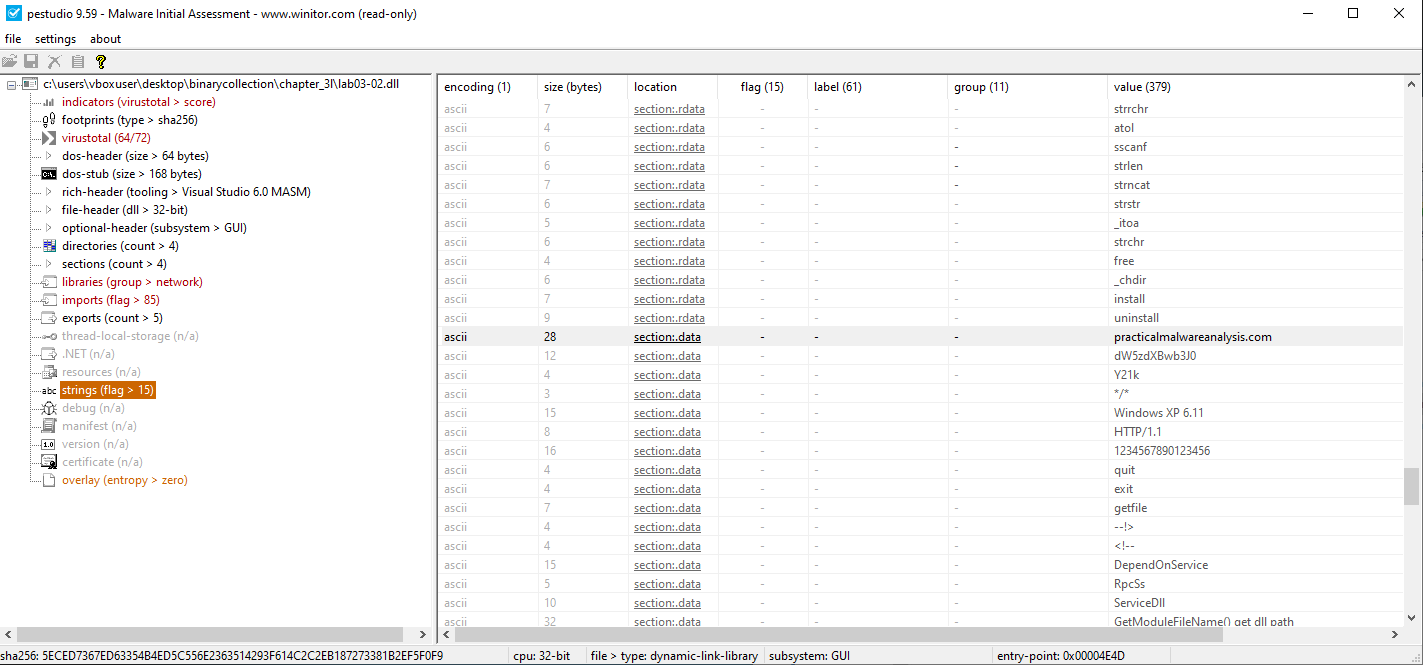
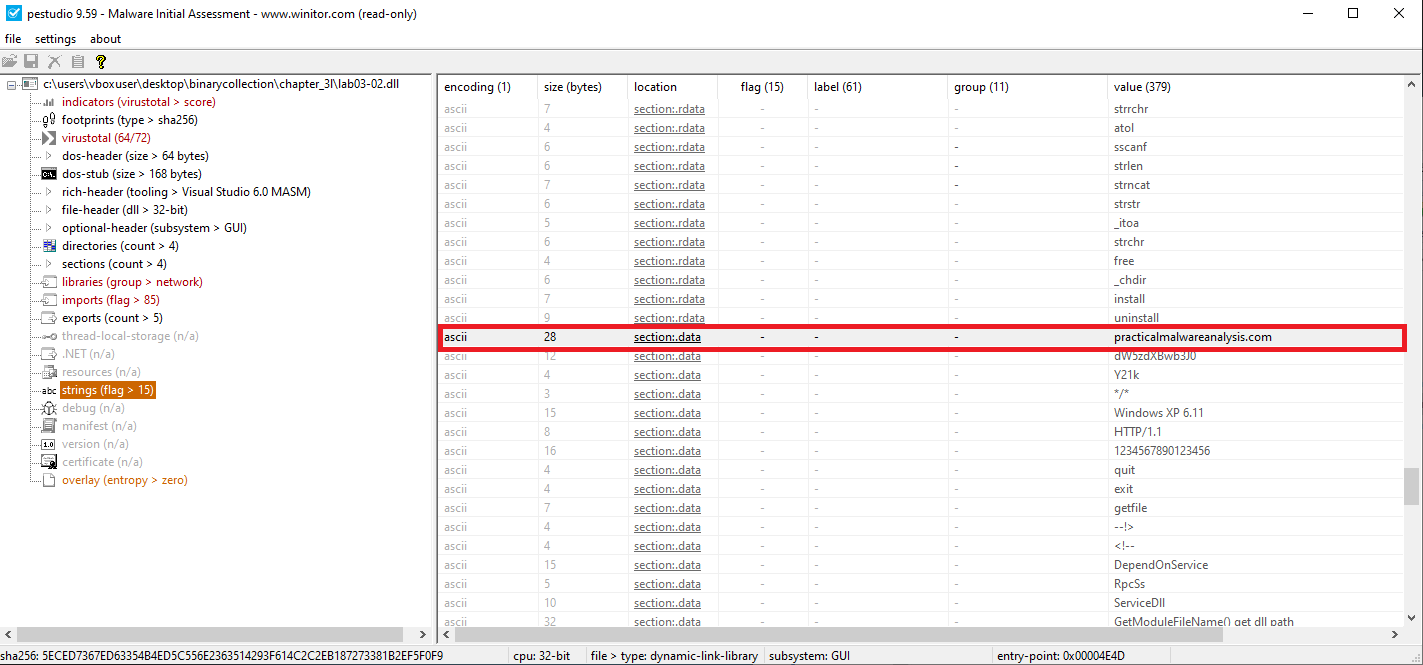
upload chapter 5

Changed region(s): [[0.3092, 0.4812, 0.9895, 0.5414]]

diff --git a/_posts/2025-07-07-ch(1,3).md b/_posts/2025-07-07-ch(1,3).md
@@ -1,17 +1,16 @@
 ---
-title: PMA Labs 
-description: Practical Malware Analysis (PMA) Lab01 .
+title: PMA ch(01,03)
+description: Practical Malware Analysis (PMA) ch(01,03) .
 categories: [PMA]
-date: 2025-07-07 00:33:00 +0800
-tags: [PMA Labs,Malware analysis ,analysis]
+date: 2025-07-07 16:33:00 +0300
+tags: [PMA Labs,Malware analysis ,analysis,ch3,ch1]
 pin: true
 math: true
 mermaid: true
 image:
   path: "../assets/img/PMA-Labs/lab01/logo.png"
   alt: PMA Labs
-keywords: [PMA Labs, Practical Malware Analysis, Malware Analysis Lab01]
-canonical_url: "https://0xislvm.github.io/posts/Lab01/"
+keywords: [PMA Labs, Practical Malware Analysis, Malware Analysis Lab01, Malware Analysis Lab03]
 ---
 <style>
 img {
@@ -451,18 +450,14 @@ We also aim to extract host-based and network-based indicators of compromise (IO
   <p style="font-weight: bold; font-size: 1.2em; margin-top: 0.5em;">Finally finished Chapter One</p>
 </div>
 
-
 ---
-##  _Lab 3 – Note_
 
+##  _Lab 3-1_
 ⚠ **Note:**  
  To properly analyze these labs (3-1 to 3-4), it's essential to run the samples on **Windows XP**.  
  If executed on **Windows 10**, the malware will **terminate immediately** without exhibiting its intended behavior.  
  All analysis in this series is conducted using **Windows XP** to ensure accurate observation of malware activities.
 
----
-
-##  _Lab 3-1_
 ### 📝 Summary
 
 Lab03-01.exe is a very small, intentionally simple piece of malware used to practice basic dynamic analysis. Its observable behavior is limited; it performs minimal actions but does establish network activity and can be profiled to extract host- and network-based indicators.
@@ -514,7 +509,7 @@ Using **Procmon**, we identified the following registry behavior:
 ### 📍 Question 2: host-based indicators
 #### ⬜ `Lab03-01.exe`
 
-**What are the malware’s host-based indicators?**
+1. **What are the malware’s host-based indicators?**
 ![q2-2](../assets/img/PMA-Labs/lab03/q2-1-lab03-01.exe.png)
 
 
@@ -540,7 +535,7 @@ Using **Procmon**, we identified the following registry behavior:
 ### 📍 Question 3: Netwwork-based indicators
 #### ⬜ `Lab03-01.exe`
 
-**Are there any useful network-based signatures for this malware? If so, what are they?**
+2. **Are there any useful network-based signatures for this malware? If so, what are they?**
 ![q3](../assets/img/PMA-Labs/lab03/q2-2-lab03-01.exe.png)
 
 Yes. The following network-based signatures are useful for detection:
@@ -600,52 +595,81 @@ These functions are likely tied to **Windows service manipulation**:
 rundll32.exe Lab03-02.dll,install
 ```
 
+---
 
-### 📍 Question 2: Persistence 
+### 📍 Question 2: Persistence I
 #### 🟫 Lab03-02.dll
-
+**How would you get this malware to run after installation?**
 ![q3](../assets/img/PMA-Labs/lab03/3dll.png)
 *Process Monitor*
-- **Registry Activity**
-The following registry-related API calls were captured during execution of the malware:
+- **Registry Activity**  
+  The following registry-related API calls were captured during execution of the malware:
 
-`RegOpenKey`
-> Key: HKLM\SOFTWARE\Microsoft\Windows NT\CurrentVersion\Svchost
+  - `RegOpenKey`  
+    > Key: `HKLM\SOFTWARE\Microsoft\Windows NT\CurrentVersion\Svchost`
 
-`RegQueryValue`
-> Key: HKLM\SOFTWARE\Microsoft\Windows NT\CurrentVersion\Svchost\netsvcs
+  - `RegQueryValue`  
+    > Key: `HKLM\SOFTWARE\Microsoft\Windows NT\CurrentVersion\Svchost\netsvcs`
 
 ![q4](../assets/img/PMA-Labs/lab03/4dll.png)
 *Registry Editor*
 
+The malware installs itself as a **Windows service** with the name **`IPRIP`**.  
+
+To manually run the service after installation, you can use either of the following methods:
+
+```shell
+sc start IPRIP
+```
+
+--
+
+### 📍 Question 3: Persistence II
+#### 🟫 Lab03-02.dll
+**How would you get this malware to run after installation?**
+
+By searching for the specified DLL (`Lab03-02.dll`) or examining the DLLs loaded by processes in **Process Explorer**, we can identify the **process ID (PID) of the `svchost.exe` instance** hosting the malicious service (`IPRIP`).  
+
+![q4](../assets/img/PMA-Labs/lab03/4dll.jpg)
+*jai minton screenshot*
+- **PID: 1068**
 
 
 
+---
+
+### 📍 Question 4: procmon filter
+#### 🟫 Lab03-02.dll
+4. **Which filters could you set in order to use procmon to glean information?**
+
+Because there’s likely to be multiple svchost processes, we can filter by the Process ID to glean information only on the svchost process responsible for running this malware.
+
+---
+
+### 📍 Question 5: host-based indicators
+#### 🟫 Lab03-02.dll
+5. **What are the malware’s host-based indicators?**
 
 ![q5](../assets/img/PMA-Labs/lab03/5dll.png)
 *Registry Editor*
 
+- A malicious service is created with the name **`IPRIP`**.  
+- Service description observed: **Intranet Network Awareness (INA+)**  
+  - *Depends on INA+*  
+  - *Collects and stores network configuration and location information, and notifies applications when this information changes.*  
+- Registry entry for the service DLL: 
 
 
 
+### 📍 Question 6: network-based indicators
+#### 🟫 Lab03-02.dll
+6. **Are there any useful network-based signatures for this malware?**
 
+![q6](../assets/img/PMA-Labs/lab03/6dll.png)
+*PEStudio*
 
-
-
-
-
-
-
-
-
-2. How would you get this malware to run after installation?
-3. How can you find the process under which this malware is running?
-4. Which filters could you set in order to use procmon to glean
-information?
-5. What are the malware’s host-based indicators?
-6. Are there any useful network-based signatures for this malware?
-
-
+**Observed Network Activity**
+- During static analysis in **PEStudio**, the malware was found to attempt a connection to the following domain: `practicalmalwareanalysis.com` .
 
 
 
@@ -662,8 +686,7 @@ Explorer?
 4. What is the purpose of this program?
 
 ---
-
-62 Chapter 3
+Chapter 3
 Lab 3-4
 Analyze the malware found in the file Lab03-04.exe using basic dynamic analysis tools. (This program is analyzed further in the Chapter 9 labs.)
 Questions

diff --git a/_posts/2025-09-05-ch-5.md b/_posts/2025-09-05-ch-5.md
@@ -1,0 +1,60 @@
+---
+title: PMA ch05
+description: Practical Malware Analysis (PMA) chapter 5 .
+categories: [PMA]
+date: 2025-09-05 16:39:00 +0800
+tags: [PMA Labs,Malware analysis ,analysis,ch05]
+pin: true
+math: true
+mermaid: true
+image:
+  path: "../assets/img/PMA-Labs/lab05/logo.png"
+  alt: PMA Labs
+keywords: [PMA Labs, Practical Malware Analysis, Malware Analysis Lab01, Malware Analysis Lab01]
+---
+
+<style>
+img {
+  border: 0px solid transparent;
+  height: auto;
+}
+
+img:hover {
+  transform: scale(1.2);
+  border: 2px solid #007bff; /* Blue border on hover */
+  border-radius: 10px;
+}
+</style>
+
+
+##  _Lab 5-1_
+
+### 📝 Summary
+In this lab, we analyze `Lab01-01.exe` and `Lab01-01.dll` using static analysis techniques.  
+Our goal is to identify suspicious characteristics, determine the purpose of the files, and extract any host-based or network-based indicators.  
+We use tools such as **PE Studio**, **PEiD**, **PEview**, **Strings**, **Dependency Walker**, **Detect It Easy**, and **VirusTotal**.
+
+---
+
+### 📍 Question 1: VirusTotal Detections
+
+**Do either files match any existing antivirus signatures?**
+
+#### ⬛ `Lab05-01.exe`
+![Lab01-01.exe](../assets/img/PMA-Labs/lab01/q1-lab1-.exe.png)
+
+- **Detection Ratio:** `56 / 71`
+- **Common AV Detections:**
+  - `CrowdStrike Falcon`: *Win/malicious_confidence_100%*
+  - `AVG`: *Win32:MalwareX-gen*
+
+#### 🟨 `Lab01-01.dll`
+![Lab01-01.dll](../assets/img/PMA-Labs/lab01/q1-lab1-dll.png)
+
+
+
+---
+
+### 📍 Question 2: 
+
+**When were these files compiled?**
